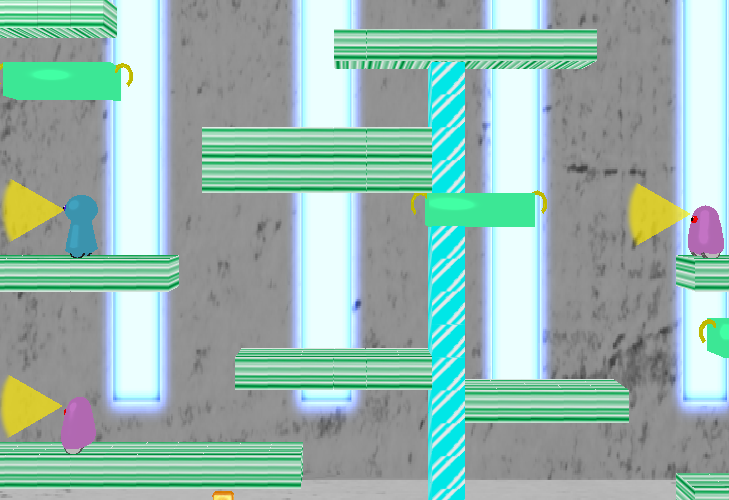
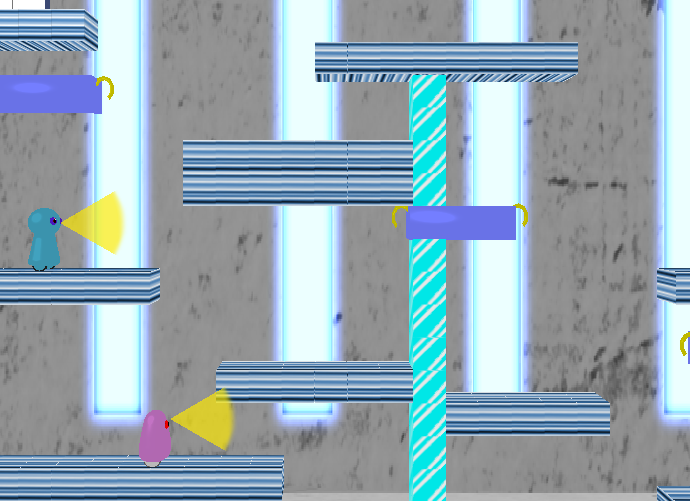
セレクトのサムネとステージごとにテクスチャ変更

diff --git a/project/GameScene.cpp b/project/GameScene.cpp
@@ -127,13 +127,13 @@ void GameScene::GameInit()
 	_feverData = FEVER_DATA();
 	switch (gm.GetNowStage()) {
 	case 0:
-		mapName = "map/Beginner.map";
+		mapName = "map/easy.map";
 		break;
 	case 1:
 		mapName = "map/Intermediate.map";
 		break;
 	case 2:
-		mapName = "map/na.map";
+		mapName = "map/hard.map";
 		break;
 	default:
 		ASSERT();
